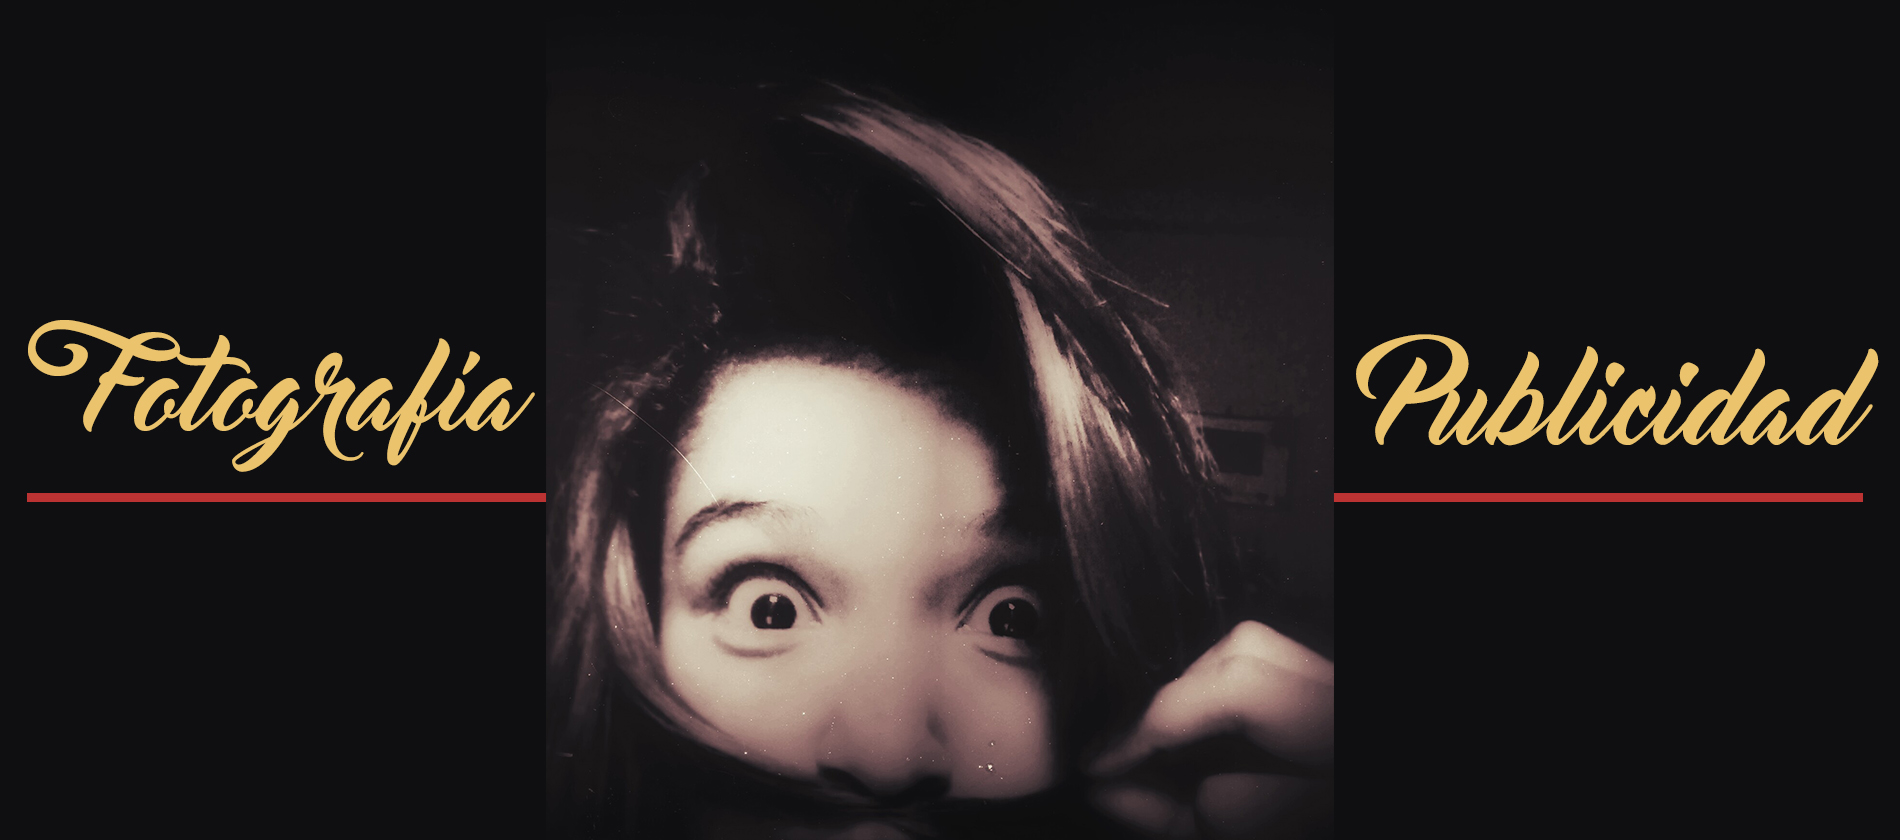
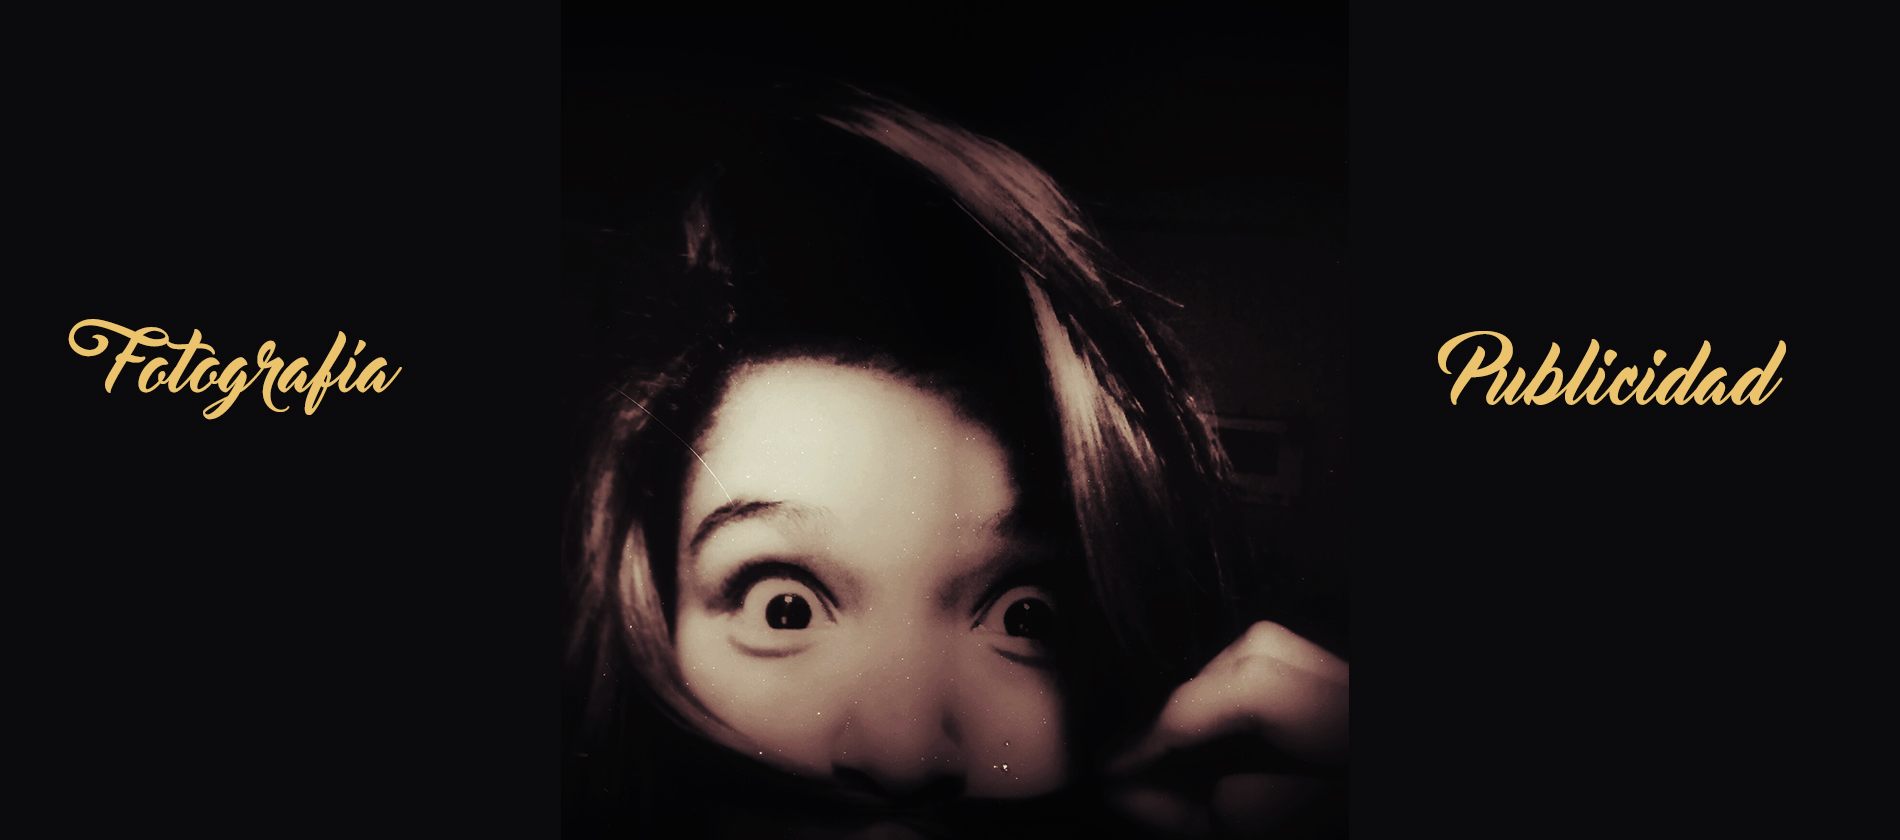
mi perfil terminado

Changed region(s): [[0.0, 0.0929, 0.9937, 1.0], [0.3416, 0.2167, 0.3726, 0.3405]]

diff --git a/views/andrea.html b/views/andrea.html
@@ -81,16 +81,12 @@
               <div class="col-md-7">
                 <hr class="section-heading-spacer"></hr>
                 <br/>
-                <h2 class="section-heading">titulo</h2>
-                <br/>
-                <br/>
-                <br/>
-                <br/>
-
-                <p class="lead"> parrafo info</p>
+                <h2 class="section-heading">Fotograf&iacute;a</h2>
+              </br>
+                <p class="lead"> La fotograf&iacute;a desempeña un papel importante como medio de informaci&oacute;n, como instrumento de la ciencia y la tecnolog&iacute;a, como una forma de arte y una afici&oacute;n popular. Con ella podemos recoger momentos especiales y dejarlo fijos por mucho tiempo.</p>
               </div>
               <div class="col-md-5">
-                <img src="../img/imagen.jpg" class="img-fluid">
+                <img src="../img/fotografia a.jpg" class="img-fluid">
               </div>
             </div>
           </div>
@@ -101,34 +97,40 @@
           <div class="container">
             <div class="row">
               <div class="col-md-7">
-                <img src="../img/imagen2.jpg" class="img-fluid">
+                <img src="../img/publicidad.jpg" class="img-fluid">
                 
                 <br/>
                 
               </div>
               <div class="col-md-5">
-                <h2 class="section-heading">titulo 2</h2>
+                <h2 class="section-heading">Publicidad</h2>
                 <br/>
-                <br/>
-                <br/>
-                <br/>
-                <p class="lead"> parrafo 2</p>
+                <p class="lead">La publicidad es el conjunto de estrategias con las que una empresa da a conocer sus productos a la sociedad.</p>
+              </br>
+                <p class="lead">La publicidad utiliza como principal herramienta los medios de comunicaci&oacute;n, estos son tan diversos y tienen tanta expansi&oacute;n e impacto en el público en general que son fundamentales para el comercio en general.</p>
                 
               </div>
             </div>
           </div>
         </article>
       </section>
-      <section>
+     <section>
         <article>
-          <div class="banner">
-          <img src="../img/banner-footer3.jpg" width="100%"class="img-footer">
+          <div class="bannergisselle">
+          <img src="../img/footer-andrea.jpg" width="100%"class="img-footer">
             <div class="container">
               </div>
             </div>
           </div>
         </article>
       </section>
+
+  
+
+
+
+
+
     <!-- Bootstrap core JavaScript-->
     <script src="../js/jquery/jquery-1.12.4.js"></script>
     <script src="../js/bootstrap/bootstrap.js"></script>
